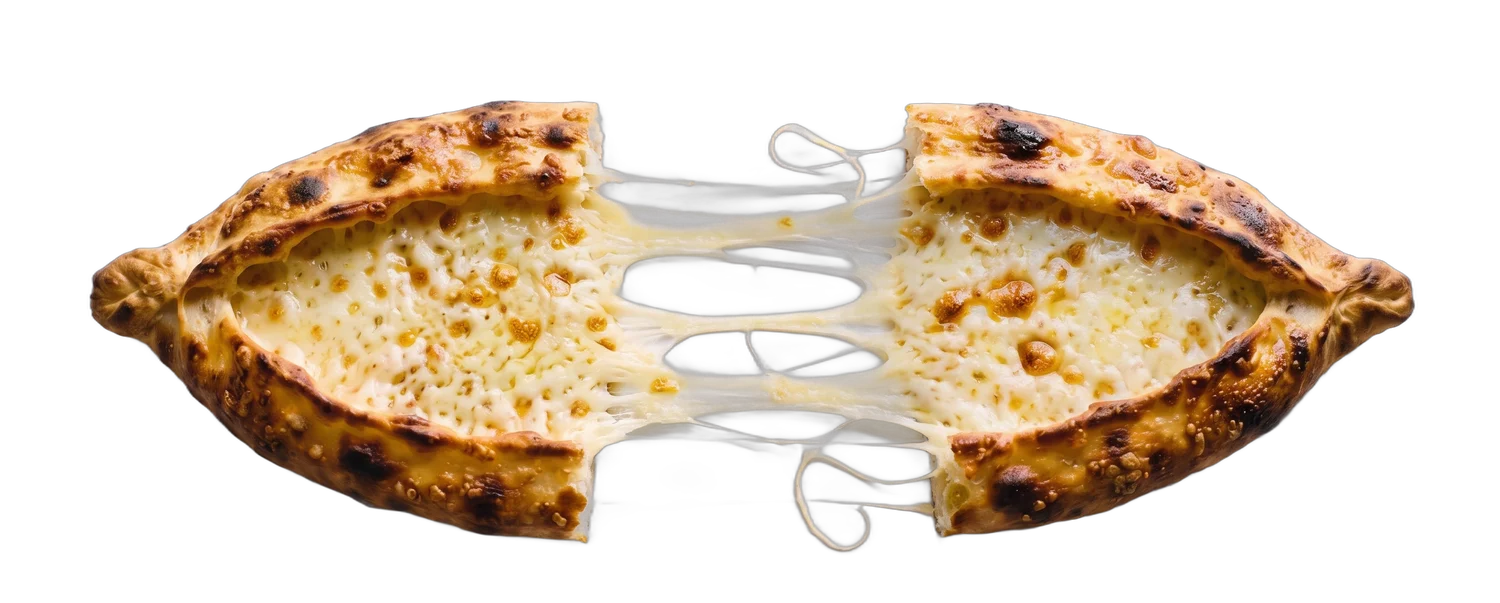
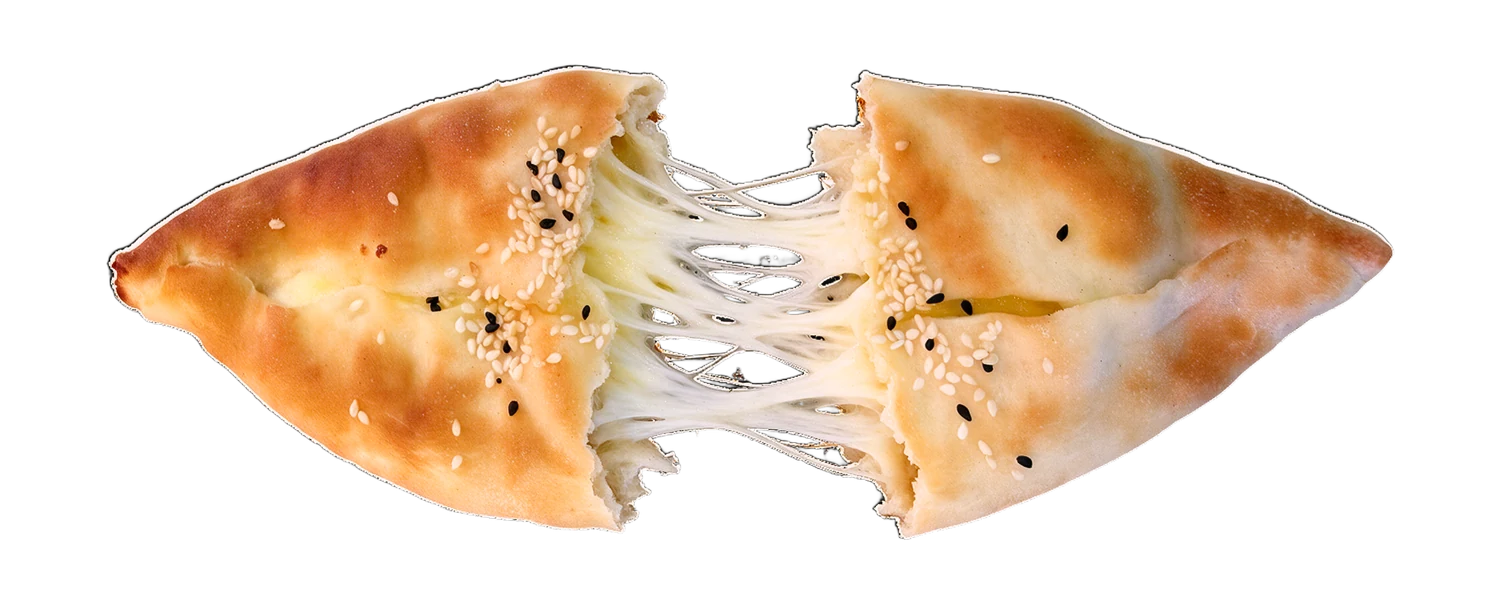
feat: die Kaeseschiff-Reise zeigt jetzt SEIN Kaeseschiff
Karol: „das käseschiff von aram ist von außen zu. man sieht den typischen
käse nur in der mitte leicht. das ist normal bei denen … man könnte die
aktuelle animation 1:1 durch das aram ding ersetzen sodass es wirklich
aram logik enthält aber nur aram logik."

WAS DA LAG
Ein Adscharuli Chatschapuri: ein OFFENES Boot mit rohem Eigelb in der
Mitte. Das ist georgisch, und auf ihrer Speisekarte steht es nicht — die
22 Gerichte heissen „Lange Kaese", „Doppelt Kaese", „Gross Kaese scharf".
Die Reise fuehrte also ein Gericht vor, das es bei ihm nicht gibt.

Kurios: werkzeug/kaesriss.py traegt seit Wochen den Absatz „Kein Ei —
Karol: Spiegelei habe ich nie was von gesagt." Das Werkzeug wusste es,
die Bilder nicht. Sie sind nie neu erzeugt worden.

DIE NEUE FOLGE
Aus IMG_1533 abgeleitet, seinem echten Schiff, ueber Higgsfield mit dem
fertigen Freisteller als Vorlage — also aus seinem Material, nicht aus
einer Vorstellung davon. Fuenf Zustaende in EINEM Rahmen (1500 x 603),
damit beim Ueberblenden nichts springt.

DIE STUFEN HEISSEN JETZT ANDERS, UND DAS IST DER PUNKT
Vorher: Kugel -> gewalzt -> belegt -> gebacken. Das ist die Folge eines
OFFENEN Schiffs. Ein geschlossenes wird nicht gewalzt, es wird geformt
und zugedrueckt; und es wird nicht belegt, es wird bestreut.

    stufe-2-gewalzt  ->  stufe-2-geformt
    stufe-3-belegt   ->  stufe-3-bestreut

AUFGERAEUMT
riss-1, riss-2, riss-4 und k20/k31/k32/k34 lagen im Ordner und wurden von
[…]

diff --git a/src/komponenten/Kaeseschiff.tsx b/src/komponenten/Kaeseschiff.tsx
@@ -208,10 +208,22 @@ const BAHN: readonly Punkt[] = [
  * heile darunter — schlimmer als ein Geist. Ein Schnitt ist hier ohnehin das
  * Richtige: ein Gebäck bricht nicht über eine halbe Sekunde auf, es bricht.
  */
+/**
+ * ═══ Die Folge heisst jetzt anders, weil sein Schiff anders entsteht ═══
+ *
+ * Hier stand „gewalzt" und „belegt". Das ist die Folge eines OFFENEN
+ * Kaeseschiffs: Teig flach ausrollen, belegen, backen. Aram macht ein
+ * GESCHLOSSENES — Karol am 10.09.: „das käseschiff von aram ist von außen zu,
+ * man sieht den typischen käse nur in der mitte leicht."
+ *
+ * Ein geschlossenes Schiffchen wird nicht gewalzt, es wird geformt und
+ * zugedrueckt; und es wird nicht belegt, es wird bestreut. Die Bilder zeigen
+ * das jetzt, also heissen die Stufen auch so.
+ */
 const STUFEN: readonly { klasse: string; ab: number }[] = [
   { klasse: 'stufe-1-kugel', ab: 0.0 },
-  { klasse: 'stufe-2-gewalzt', ab: 0.13 },
-  { klasse: 'stufe-3-belegt', ab: 0.27 },
+  { klasse: 'stufe-2-geformt', ab: 0.13 },
+  { klasse: 'stufe-3-bestreut', ab: 0.27 },
   { klasse: 'stufe-4-gebacken', ab: 0.4 },
 ]
 

diff --git a/werkzeug/reisebilder.py b/werkzeug/reisebilder.py
@@ -1,0 +1,98 @@
+"""
+Reisebilder — die Kaeseschiff-Reise aus SEINEM Kaeseschiff.
+
+═══ Warum die alte Reise falsch war ═══
+
+Auf der Seite lag ein Adscharuli Chatschapuri: ein offenes Boot mit rohem
+Eigelb in der Mitte. Das ist georgisch. Aram macht etwas anderes — Karol am
+10.09.: „das käseschiff von aram ist von außen zu. man sieht den typischen
+käse nur in der mitte leicht. das ist normal bei denen."
+
+Dazu kommt: auf ihrer Speisekarte steht ueberhaupt kein „Kaeseschiff". Die
+22 Gerichte heissen „Lange Kaese", „Doppelt Kaese", „Gross Kaese scharf".
+Die Reise fuehrte also ein Gericht vor, das es bei ihm nicht gibt.
+
+Kurios: werkzeug/kaesriss.py traegt seit Wochen den Absatz „Kein Ei — Karol:
+Spiegelei habe ich nie was von gesagt". Das Werkzeug wusste es, die Bilder
+nicht. Sie sind nie neu erzeugt worden.
+
+═══ Die neue Folge ═══
+
+Sie ist aus IMG_1533 abgeleitet, seinem echten Schiff, ueber Higgsfield mit
+dem fertigen Freisteller als Vorlage. Und sie ist eine ANDERE Folge als vorher,
+weil sein Schiff anders entsteht: ein geschlossenes Schiffchen wird nicht flach
+gewalzt, es wird geformt und zugedrueckt.
+
+    1 Kugel      roher Teig
+    2 geformt    Schiffchen geschlossen, noch blass          (vorher: „gewalzt")
+    3 bestreut   mit Sesam und Schwarzkuemmel, noch roh      (vorher: „belegt")
+    4 gebacken   sein Freisteller
+    5 gerissen   in zwei Haelften, echte Kaesefaeden dazwischen
+
+═══ Ein Rahmen fuer alle ═══
+
+Fuenf Zustaende desselben Gegenstands duerfen beim Ueberblenden nicht springen.
+Es wird deshalb EIN Rechteck gebildet, das alle umschliesst, und alle werden
+darauf gelegt — dieselbe Regel wie im Vorbau, an der der erste Bau damals
+gescheitert ist.
+"""
+from pathlib import Path
+import numpy as np
+from PIL import Image
+import json, sys
+
+sys.path.insert(0, str(Path(__file__).parent))
+from aramlicht import graduiere
+
+BREIT, HOCH = 1500, 603
+ZIEL = Path(__file__).parent.parent / 'public' / 'bilder' / 'riss'
+
+QUELLEN = {
+    'stufe-1-kugel':    '/tmp/reise-stufe1.png',
+    'stufe-2-geformt':  '/tmp/reise-stufe2.png',
+    'stufe-3-bestreut': '/tmp/reise-stufe3.png',
+    'stufe-4-gebacken': '/tmp/roh-fatayer-frei.png',
+}
+RISS = '/tmp/reise-riss.png'
+
+
+def zuschnitt(p):
+    im = Image.open(p).convert('RGBA')
+    bb = im.getbbox()
+    return im.crop(bb) if bb else im
+
+
+def in_rahmen(im, mass):
+    """Auf `mass` der langen Kante bringen und mittig in den Rahmen legen."""
+    f = mass / max(im.size)
+    k = im.resize((max(1, round(im.width * f)), max(1, round(im.height * f))), Image.LANCZOS)
+    r = Image.new('RGBA', (BREIT, HOCH), (0, 0, 0, 0))
+    r.paste(k, ((BREIT - k.width) // 2, (HOCH - k.height) // 2))
+    return r
+
+
+def sichern(im, name):
+    g = graduiere(im)
+    g.save(ZIEL / f'{name}.webp', 'WEBP', quality=88, method=6)
+    return name, g.size
+
+
+if __name__ == '__main__':
+    ZIEL.mkdir(parents=True, exist_ok=True)
+    # Der gebackene Zustand gibt das Mass vor — er ist der Bezug der Reise.
+    stuecke = {n: zuschnitt(p) for n, p in QUELLEN.items()}
+    MASS = int(BREIT * 0.86)
+
+    for n, im in stuecke.items():
+        # Teig ist beim Formen etwas kleiner als das gebackene Schiff.
+        anteil = {'stufe-1-kugel': 0.42, 'stufe-2-geformt': 0.94, 'stufe-3-bestreut': 0.97}.get(n, 1.0)
+        print(*sichern(in_rahmen(im, int(MASS * anteil)), n))
+
+    # riss-3 ist der EINZIGE Rissstand, den die Sektion liest — riss-1, -2
+    # und -4 lagen im Ordner, werden aber von niemandem angefordert.
+    print(*sichern(in_rahmen(zuschnitt(RISS), MASS), 'riss-3'))
+
+    json.dump({n: {'breite': BREIT, 'hoehe': HOCH} for n in
+               ['stufe-1-kugel', 'stufe-2-geformt', 'stufe-3-bestreut',
+                'stufe-4-gebacken', 'riss-3']},
+              open(Path(__file__).parent.parent / 'inhalt' / 'riss.json', 'w'), indent=1)
